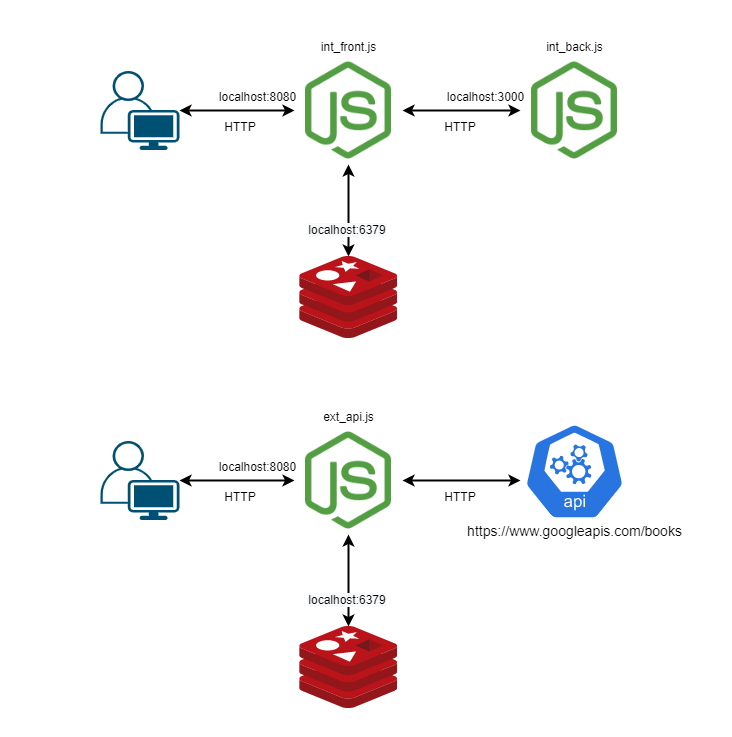
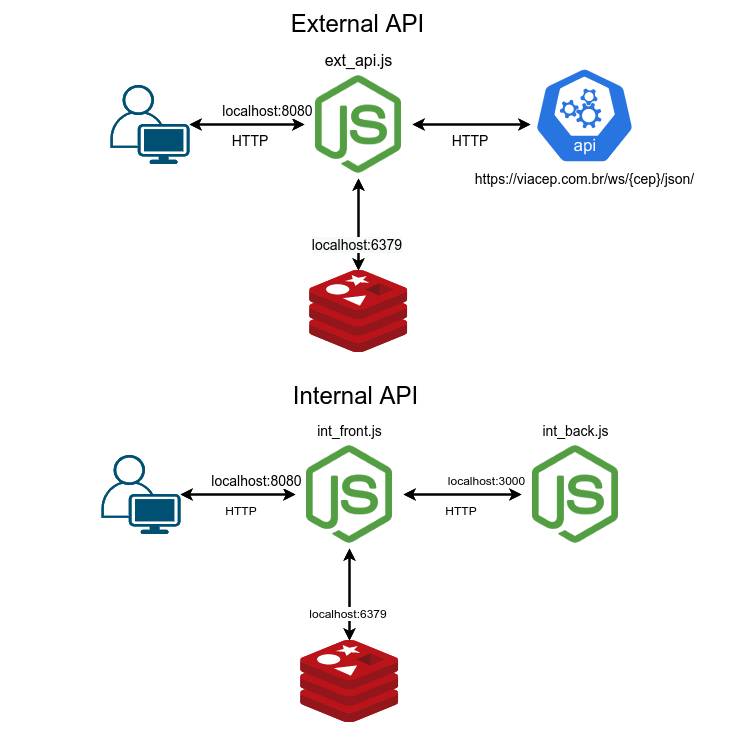
added cep query

Changed region(s): [[0.1204, 0.0, 0.9631, 0.4993], [0.1204, 0.4993, 0.933, 0.9986]]

diff --git a/ext_api.js b/ext_api.js
@@ -26,32 +26,36 @@ console.log("Redis Server:", redisServer, "| Port:", redisServerPort, "| Enabled
 console.log("Back Server Port:", frontServerPort)
 console.log("Console Output:", consoleOutput)
  
+
+// cep is like the zipcode for Brazil
 const getBook = (req, res) => {
-  let isbn = req.query.isbn;
-  let url = `https://www.googleapis.com/books/v1/volumes?q=isbn:${isbn}`;
+  let cep = req.query.cep;
+  let url = ('https://viacep.com.br/ws/' + cep + '/json/');
+  // console.log(url);
   return axios.get(url)
     .then(response => {
-      let book = response.data.items;
+      let location = response.data;
+      // console.log(location);
       if (consoleOutput === true){
-        console.log(JSON.stringify(book));
+        console.log(JSON.stringify(location));
       }
-      // If 'cacheEnabled = true' in config we define an isbn key for our cache
+      // If 'cacheEnabled = true' in config we define a cep key for our cache
       if (cacheEnabled === true){
-        client.set(isbn, JSON.stringify(book))
+        client.set(cep, JSON.stringify(location))
 			  // The cache entry will be deleted after the 'cacheExpireTimeSec' automatically
-			  client.expire(isbn, cacheExpireTimeSec)
+			  client.expire(cep, cacheExpireTimeSec)
       }
-      res.send(book);
+      res.send(location);
     })
     .catch(err => {
-      res.send('Book not found !!!');
+      res.send('CEP not found !!!');
     });
 };
  
 const getCache = (req, res) => {
-  let isbn = req.query.isbn;
+  let cep = req.query.cep;
   //It verifies if we have cached it previously
-  client.get(isbn, (err, result) => {
+  client.get(cep, (err, result) => {
     if (result) {
       res.send(result);
     } else {
@@ -60,7 +64,7 @@ const getCache = (req, res) => {
   });
 }
  
-app.get('/book', getCache);
+app.get('/location', getCache);
  
 app.listen(frontServerPort, function() {
   console.log('Server listening on', frontServerPort, "port...")
